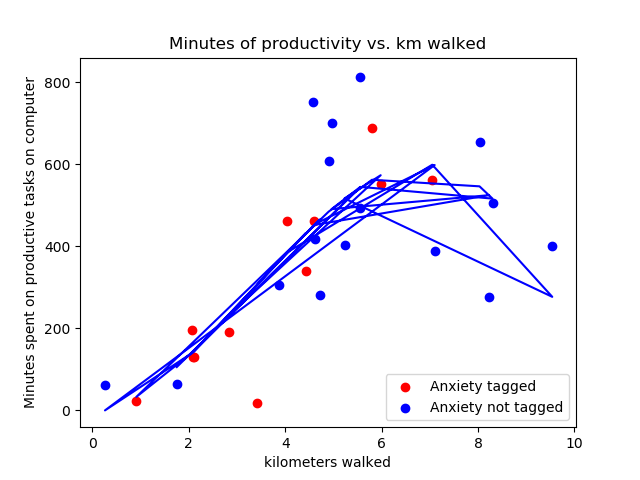
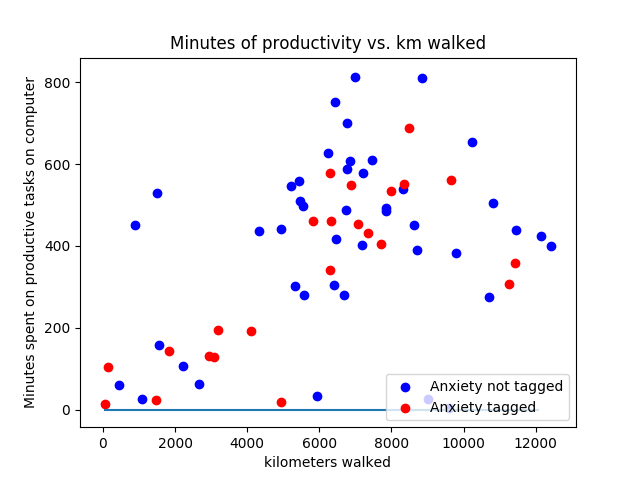
new normal distribution

diff --git a/scripts/productivity_min_walk.py b/scripts/productivity_min_walk.py
@@ -3,6 +3,7 @@ from collections import OrderedDict
 import statsmodels.api as sm
 import numpy as np
 import pandas as pd
+from scipy.stats import norm
 
 productive_min = pd.DataFrame.from_csv("../csv/productive_min.csv", index_col="date")
 steps = pd.DataFrame.from_csv("../csv/steps_daily.csv", index_col="date")
@@ -14,15 +15,27 @@ z = anxiety["value"]
 
 #pearR = np.corrcoef(x,y)[1,0]
 
-w = np.poly1d(np.polyfit(x, y, 3))
-xp = np.linspace(0, 10, len(x))
+#w = np.poly1d(np.polyfit(x, y, 4))
 
+# Fit a normal distribution
+mu = 8000
+sigma = 3000
+x_axis = np.arange(min(x), max(x), 1000)
+
+# Label the plot
 fig = plt.figure(1)
 plt.title("Minutes of productivity vs. km walked")
 plt.xlabel("kilometers walked")
 plt.ylabel("Minutes spent on productive tasks on computer")
+
+# Plot the data
 plt.scatter(x, y)
-plt.plot(x, w(x), "b")
+#plt.plot(x, w(x), "b")
+
+# Plot the normal distribution
+plt.plot(x_axis, norm.pdf(x_axis,mu,sigma))
+
+# Add a legend, save, and close
 handles, labels = plt.gca().get_legend_handles_labels()
 by_label = OrderedDict(zip(labels, handles))
 plt.legend(by_label.values(), by_label.keys(), loc=4)
@@ -30,16 +43,25 @@ plt.savefig("../images/productivity_min_vs_km_walked.png")
 plt.show()
 plt.close()
 
+# Label the plot
 fig = plt.figure(1)
 plt.title("Minutes of productivity vs. km walked")
 plt.xlabel("kilometers walked")
 plt.ylabel("Minutes spent on productive tasks on computer")
+
+# Plot the data
+# Add red dots for days with anxiety tagged, blue dots otherwise
 for index, value in enumerate(x):
     if z.iloc[index] == 1:
         plt.scatter(value, y.iloc[index], c= "r", label="Anxiety tagged")
     else:
         plt.scatter(value, y.iloc[index], c="b", label="Anxiety not tagged")
-plt.plot(x, w(x), "b")
+
+# Plot the normal distribution
+#plt.plot(x, w(x), "b")
+plt.plot(x_axis, norm.pdf(x_axis,mu,sigma))
+
+# Add a legend, save, and close
 handles, labels = plt.gca().get_legend_handles_labels()
 by_label = OrderedDict(zip(labels, handles))
 plt.legend(by_label.values(), by_label.keys(), loc=4)
